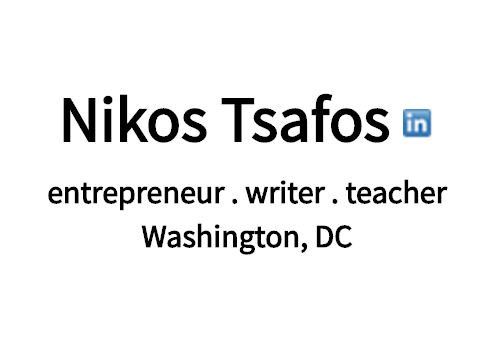
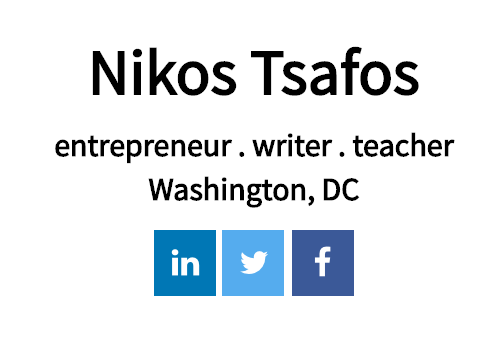
updated social media boxes

Changed region(s): [[0.093, 0.117, 0.8988, 0.4678], [0.2789, 0.6433, 0.7438, 0.8772], [0.093, 0.4971, 0.9298, 0.614]]

diff --git a/index.html b/index.html
@@ -6,7 +6,7 @@
     <meta property='og:title' content='Nikos Tsafos'/>
     <meta property='og:type' content='website' />
     <meta property='og:url' content='https://nikostsafos.github.io' />
-    <meta property="og:image" content="img/icon.png" />
+    <meta property="og:image" content="img/cover.png" />
     <meta name = 'viewport' content = 'width=device-width, initial-scale = 1.0, minimum-scale=1.0, maximum-scale=1.0, user-scalable=no'/>
     <link rel="stylesheet" type="text/css" href="css/style.css"/>
     <link rel="icon" type="image/png" href="img/icon.png" />

diff --git a/css/style.css b/css/style.css
@@ -85,13 +85,13 @@ a { text-decoration: none;}
 /* Style all font awesome icons */
 .fa {
     margin-top: 10px;
-    padding: 10px;
+    padding: 8px;
     font-size: 20px;
-    height: 20px;
-    width: 20px;
+    height: 17px;
+    width: 15px;
     text-align: center;
     text-decoration: none;
-    border-radius: 50%;
+    border-radius: 0%;
 }
 
 /* Add a hover effect if you want */
